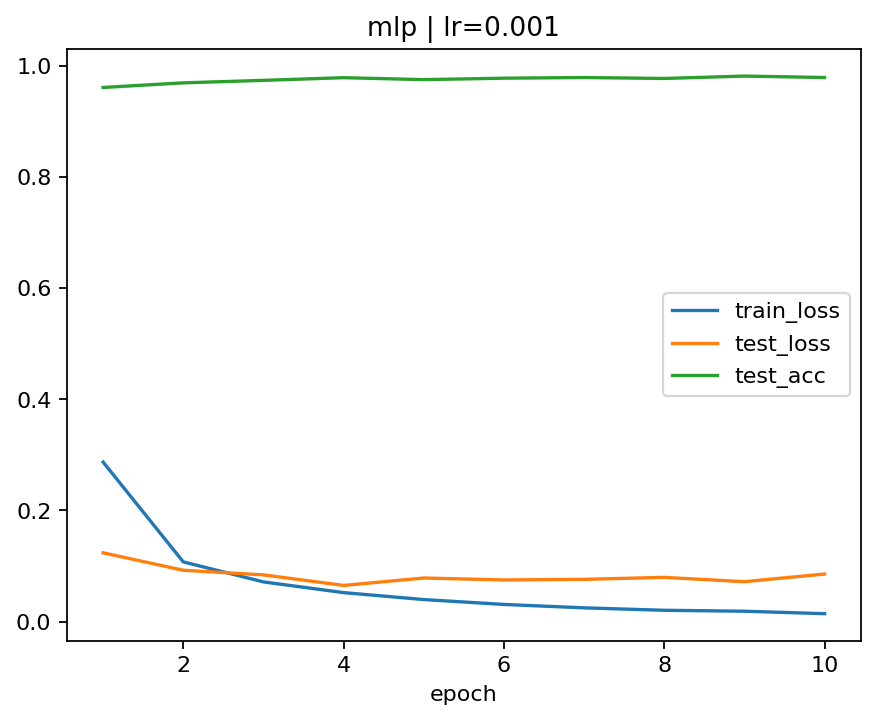
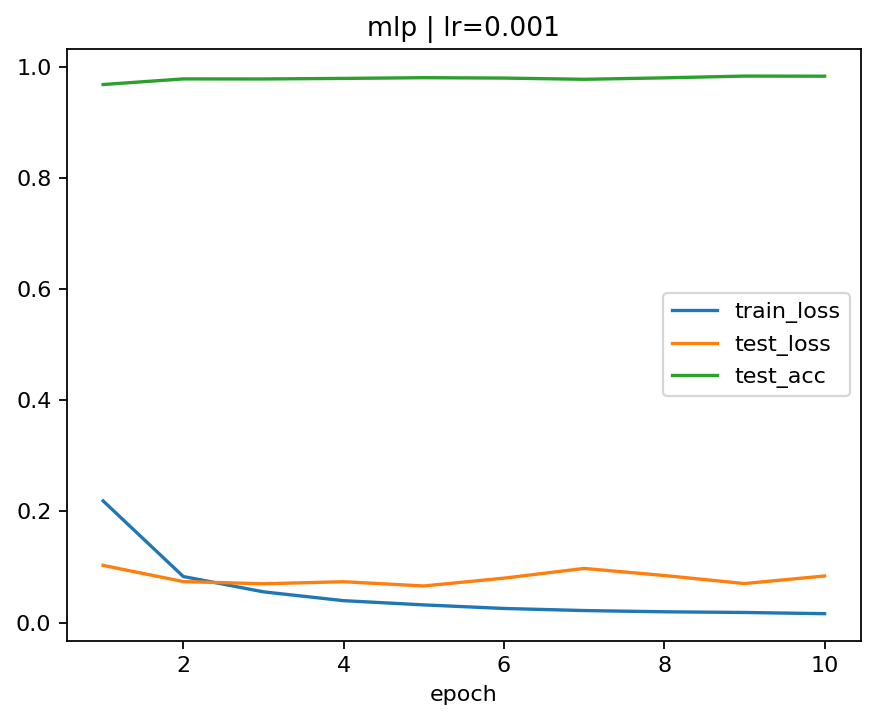
111

diff --git a/cnn.py b/cnn.py
@@ -161,10 +161,10 @@ class MLP(nn.Module):
         # 你只需要改下面这些 Linear 的输入/输出维度即可。
         # ★★★★★★★★★★★★★★★★★★★★★★★★★★★★★★★★★
 
-        self.fc1 = nn.Linear(28 * 28, 256)   # 改这里：例如 128 / 256 / 512
-        self.fc2 = nn.Linear(256, 128)       # 改这里：例如 64 / 128 / 256
+        self.fc1 = nn.Linear(28 * 28, 784)   # 改这里：例如 128 / 256 / 512
+        self.fc2 = nn.Linear(784,392)       # 改这里：例如 64 / 128 / 256
         # 如需增加第三个隐藏层，可新增 fc3，并把最后输出层改名
-        self.out = nn.Linear(128, 10)        # 最后一层输出固定 10 类（0~9）
+        self.out = nn.Linear(392, 10)        # 最后一层输出固定 10 类（0~9）
 
         # 激活函数（通常用 ReLU）
         self.relu = nn.ReLU()
